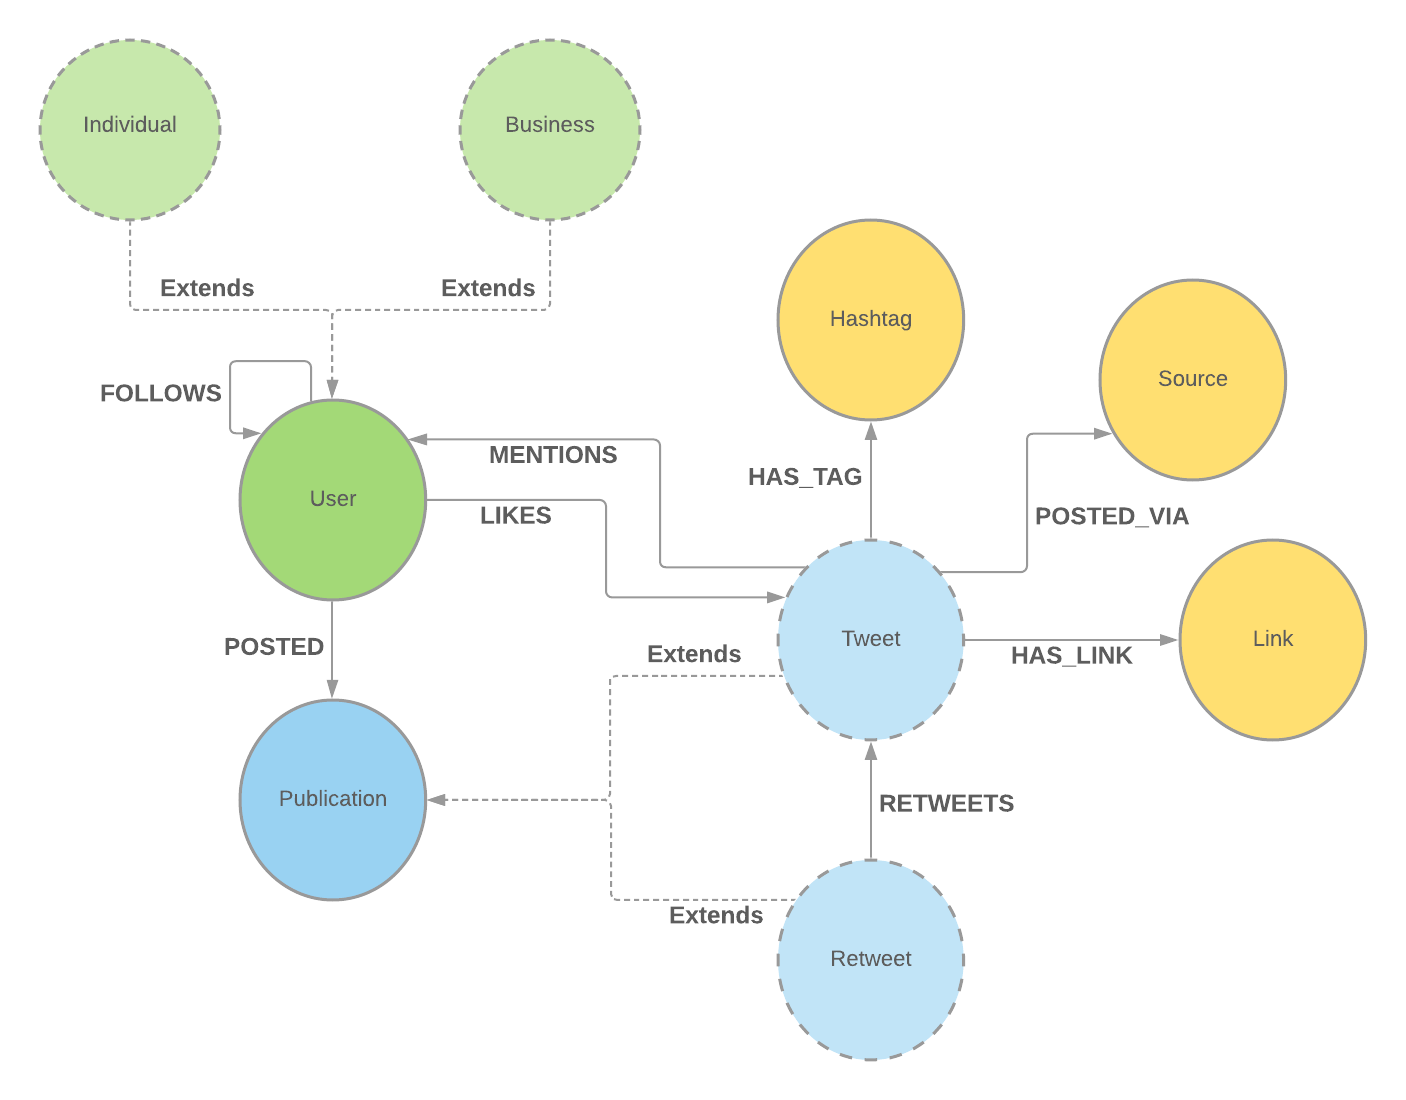
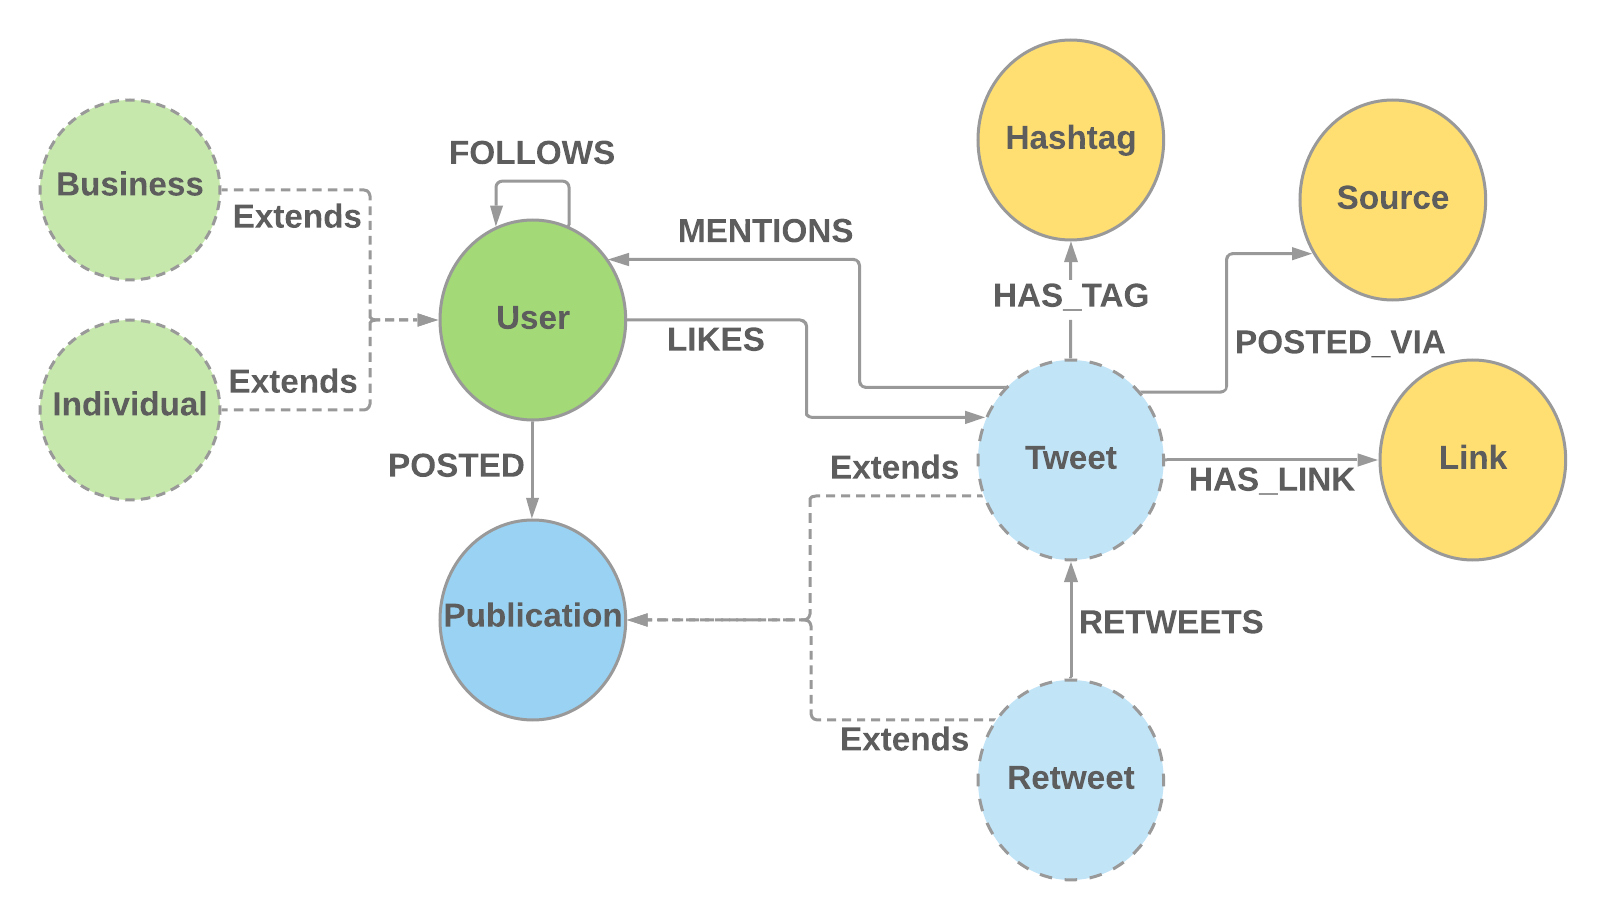
fix all failing stuff and add test command

Changed region(s): [[0.0, 0.0304, 0.9787, 0.9739], [0.0, 0.0304, 0.2447, 0.3043], [0.4587, 0.5783, 0.5199, 0.6391]]

diff --git a/src/main/kotlin/com/qohash/cabaneio2021/inserter/neo4j/Neo4jInserter.kt b/src/main/kotlin/com/qohash/cabaneio2021/inserter/neo4j/Neo4jInserter.kt
@@ -1,25 +1,18 @@
 package com.qohash.cabaneio2021.inserter.neo4j
 
-import com.fasterxml.jackson.core.type.TypeReference
 import com.fasterxml.jackson.databind.ObjectMapper
 import com.fasterxml.jackson.module.kotlin.convertValue
 import com.qohash.cabaneio2021.inserter.Inserter
 import com.qohash.cabaneio2021.inserter.TwitterModel
 import com.qohash.cabaneio2021.inserter.neo4j.assembler.*
 import com.qohash.cabaneio2021.inserter.neo4j.entity.*
-import net.bytebuddy.utility.RandomString
 import org.springframework.beans.factory.InitializingBean
 import org.springframework.beans.factory.annotation.Qualifier
 import org.springframework.data.neo4j.core.Neo4jClient
-import org.springframework.data.neo4j.repository.Neo4jRepository
-import org.springframework.data.neo4j.repository.query.Query
 import org.springframework.stereotype.Component
 import java.util.*
 
 const val NEO4J = "neo4j"
-
-interface Neo4jUserRepository : Neo4jRepository<Neo4jUserEntity, UUID> {
-}
 
 data class TweetImport(
     val tweet: Neo4jTweetEntity,
@@ -94,6 +87,7 @@ class Neo4jInserter(
                             
                            FOREACH(link IN tweet.links | 
                                 MERGE (linkNode:Link {url: link.url }) 
+                                CREATE (tweetNode)-[:HAS_LINK]->(linkNode)
                             )
                             
                             MERGE (sourceNode:Source {name: tweet.source.name})
@@ -135,7 +129,7 @@ class Neo4jInserter(
                     fetchQuery = "UNWIND $${"userFollows"} AS follow RETURN follow",
                     callback = """
                         MERGE (user:User { id: follow.followerId })
-                        MERGE (followed:Tweet:Publication { id: follow.followedId })
+                        MERGE (followed:User { id: follow.followedId })
                         CREATE (user)-[:FOLLOWS]->(followed)
                     """,
                     params = "{ userFollows: $${"userFollows"} }"

diff --git a/src/main/kotlin/com/qohash/cabaneio2021/shell/TestCommand.kt b/src/main/kotlin/com/qohash/cabaneio2021/shell/TestCommand.kt
@@ -1,0 +1,42 @@
+package com.qohash.cabaneio2021.shell
+
+import com.qohash.cabaneio2021.inserter.DataInsertionService
+import com.qohash.cabaneio2021.inserter.Inserter
+import com.qohash.cabaneio2021.inserter.arangodb.ARANGO_DB
+import com.qohash.cabaneio2021.inserter.mongo.MONGO
+import com.qohash.cabaneio2021.inserter.neo4j.NEO4J
+import com.qohash.cabaneio2021.inserter.postgres.POSTGRES
+import com.qohash.cabaneio2021.inserter.postgres.entity.PostgresTweetEntity
+import org.springframework.beans.factory.InitializingBean
+import org.springframework.data.repository.CrudRepository
+import org.springframework.data.repository.findByIdOrNull
+import org.springframework.shell.standard.ShellComponent
+import org.springframework.shell.standard.ShellMethod
+import org.springframework.shell.standard.ShellOption
+import org.springframework.stereotype.Component
+import org.springframework.transaction.annotation.Transactional
+import java.util.*
+import javax.validation.Valid
+import javax.validation.constraints.Max
+import javax.validation.constraints.Pattern
+import javax.validation.constraints.Positive
+
+
+interface PostgresTweetEntityRepository : CrudRepository<PostgresTweetEntity, UUID>
+
+@ShellComponent
+class TestCommand(
+    private val repository: PostgresTweetEntityRepository
+) {
+    @ShellMethod(
+        value = "Test anything you'd like here",
+        key = ["test"],
+    )
+    @Transactional
+    fun test() {
+        val t = repository.findByIdOrNull(UUID.fromString("b9fa3e48-8bf7-425b-8352-979235f841b2"))!!
+        println(t.id)
+        println(t.links)
+        println(t.hashTags)
+    }
+}

diff --git a/src/main/kotlin/com/qohash/cabaneio2021/inserter/postgres/PostgresInserter.kt b/src/main/kotlin/com/qohash/cabaneio2021/inserter/postgres/PostgresInserter.kt
@@ -4,8 +4,11 @@ import com.qohash.cabaneio2021.inserter.Inserter
 import com.qohash.cabaneio2021.inserter.TwitterModel
 import com.qohash.cabaneio2021.inserter.postgres.assembler.setUserRelations
 import com.qohash.cabaneio2021.inserter.postgres.assembler.toPostgres
+import com.qohash.cabaneio2021.inserter.postgres.entity.PostgresTweetEntity
 import com.qohash.cabaneio2021.inserter.postgres.entity.PostgresUserEntity
+import org.springframework.beans.factory.InitializingBean
 import org.springframework.beans.factory.annotation.Qualifier
+import org.springframework.context.annotation.Configuration
 import org.springframework.context.annotation.Lazy
 import org.springframework.data.repository.CrudRepository
 import org.springframework.stereotype.Component
@@ -17,7 +20,6 @@ interface PostgresUserRepository : CrudRepository<PostgresUserEntity, UUID>
 
 @Component
 @Qualifier(POSTGRES)
-@Lazy
 class PostgresInserter(
     private val repository: PostgresUserRepository,
 ) : Inserter {
@@ -37,3 +39,4 @@ class PostgresInserter(
         repository.saveAll(postgresUsers)
     }
 }
+

diff --git a/src/main/kotlin/com/qohash/cabaneio2021/inserter/neo4j/entity/Neo4jPublicationEntity.kt b/src/main/kotlin/com/qohash/cabaneio2021/inserter/neo4j/entity/Neo4jPublicationEntity.kt
@@ -5,6 +5,7 @@ import org.springframework.data.jpa.domain.AbstractPersistable_.id
 import org.springframework.data.neo4j.core.schema.Id
 import org.springframework.data.neo4j.core.schema.Node
 import org.springframework.data.neo4j.core.schema.Relationship
+import java.time.Instant
 import java.util.*
 
 @Node("Publication")
@@ -25,9 +26,7 @@ class Neo4jTweetEntity (
     id: UUID,
     val text: String,
     val sourceName: String,
-//    @Relationship(type = "HAS_TAG") var hashTags: List<Neo4jHashTagEntity>,
-//    @Relationship(type = "HAS_LINK") var links: List<Neo4jLinkEntity>,
-//    @Relationship(type = "MENTIONS") var mentions: List<Neo4jUserEntity>,
+    val timestamp: Instant,
 ) : Neo4jPublicationEntity(
     id = id,
 )

diff --git a/src/main/kotlin/com/qohash/cabaneio2021/inserter/postgres/entity/PostgresPublicationEntity.kt b/src/main/kotlin/com/qohash/cabaneio2021/inserter/postgres/entity/PostgresPublicationEntity.kt
@@ -1,5 +1,6 @@
 package com.qohash.cabaneio2021.inserter.postgres.entity
 
+import java.time.Instant
 import java.util.*
 import javax.persistence.*
 
@@ -32,7 +33,8 @@ class PostgresTweetEntity(
     val text: String,
     @Column(name = "source_name")
     val sourceName: String,
-    @ManyToMany(cascade = [CascadeType.MERGE]) val hashTags: List<PostgresHashTagEntity>,
+    val timestamp: Instant,
+    @ManyToMany(cascade = [CascadeType.MERGE], fetch = FetchType.EAGER)  val hashTags: List<PostgresHashTagEntity>,
     @ManyToMany(cascade = [CascadeType.MERGE]) val links: List<PostgresLinkEntity>,
     @ManyToMany(cascade = []) val mentions: List<PostgresUserEntity>,
 ) : PostgresPublicationEntity(

diff --git a/src/main/kotlin/com/qohash/cabaneio2021/generator/RandomModelGenerator.kt b/src/main/kotlin/com/qohash/cabaneio2021/generator/RandomModelGenerator.kt
@@ -71,6 +71,7 @@ fun randomTweet(users: List<User>): Tweet {
     return Tweet(
         id = PublicationId(UUID.randomUUID()),
         text = faker.movie.quote(),
+        timestamp = randomInstant(),
         hashtags = randomSetOf(size = randomUInt(max = 5u)) { randomHashTag() },
         links = randomSetOf(size = randomUInt(max = 3u)) { randomLink() },
         mentions = randomListOf(size = randomUInt(4u)) { users.random() }.distinct().toSet(),

diff --git a/src/main/kotlin/com/qohash/cabaneio2021/model/post/Tweet.kt b/src/main/kotlin/com/qohash/cabaneio2021/model/post/Tweet.kt
@@ -3,10 +3,12 @@ package com.qohash.cabaneio2021.model.post
 import com.qohash.cabaneio2021.model.contact.web.Link
 import com.qohash.cabaneio2021.model.post.tags.HashTag
 import com.qohash.cabaneio2021.model.user.User
+import java.time.Instant
 
 data class Tweet(
     override val id: PublicationId,
     val text: String,
+    val timestamp: Instant,
     val hashtags: Set<HashTag>,
     val links: Set<Link>,
     val mentions: Set<User>,

diff --git a/src/main/kotlin/com/qohash/cabaneio2021/generator/RandomTwitterModelGenerator.kt b/src/main/kotlin/com/qohash/cabaneio2021/generator/RandomTwitterModelGenerator.kt
@@ -10,7 +10,7 @@ private class RandomTwitterModel(
     val usersCount: UInt,
 ) : AbstractTwitterModel() {
     private val maxTweetsPerUser = 30u
-    private val maxRetweetsPerUser = 90u
+    private val maxRetweetsPerUser = 100u
     private val maxLikesPerUser = 100u
     private val maxFollowPerUser = 100u
 

diff --git a/src/main/kotlin/com/qohash/cabaneio2021/inserter/postgres/assembler/PostgresAssembler.kt b/src/main/kotlin/com/qohash/cabaneio2021/inserter/postgres/assembler/PostgresAssembler.kt
@@ -89,6 +89,7 @@ fun Tweet.toPostgres(
         id = id.value,
         text = text,
         sourceName = source.name,
+        timestamp = timestamp,
         hashTags = hashtags.toPostgres(),
         links = links.toPostgres(),
         mentions = mentions.map { postgresUsersById[it.id.value]!! }

diff --git a/src/main/kotlin/com/qohash/cabaneio2021/inserter/neo4j/assembler/Neo4jAssembler.kt b/src/main/kotlin/com/qohash/cabaneio2021/inserter/neo4j/assembler/Neo4jAssembler.kt
@@ -106,6 +106,7 @@ fun Tweet.toNeo4j(): Neo4jTweetEntity {
     return Neo4jTweetEntity(
         id = id.value,
         text = text,
+        timestamp = timestamp,
         sourceName = source.name,
     )
 }

diff --git a/src/main/kotlin/com/qohash/cabaneio2021/inserter/postgres/entity/PostgresUserEntity.kt b/src/main/kotlin/com/qohash/cabaneio2021/inserter/postgres/entity/PostgresUserEntity.kt
@@ -1,5 +1,6 @@
 package com.qohash.cabaneio2021.inserter.postgres.entity
 
+import org.springframework.stereotype.Indexed
 import java.time.Instant
 import java.util.*
 import javax.persistence.*
